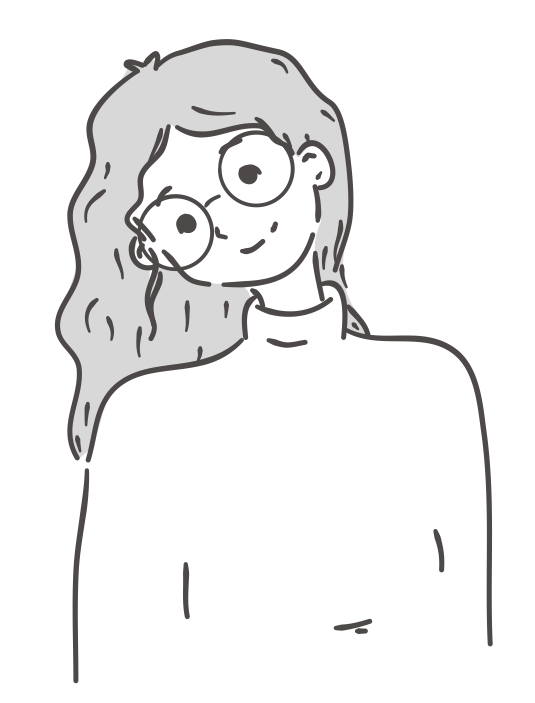
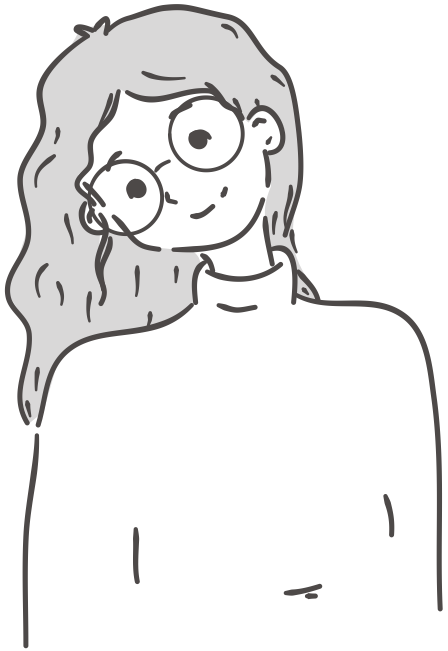
Add responsive styling for home

diff --git a/components/organisms/kp-home/index.vue b/components/organisms/kp-home/index.vue
@@ -4,17 +4,21 @@
       <p>Mikee</p>
       <p>2022 Portfolio</p>
     </header>
-    <img
-      class="home-banner"
-      :src="`${prefix}/images/self-portrait.png`"
-      :srcset="`${prefix}/images/self-portrait.png`"
-      alt="Self Portrait"
-    />
-    <div class="greetings">
-      <h1> Hi, </h1>  
-      <p>
-        I'm a <span class="highlight">Software Developer/</span> bookworm/cat lover from Cebu, Philippines
-      </p>
+    <div class="content-layout">
+      <div class="banner-container">
+        <img
+          class="home-banner"
+          :src="`${prefix}/images/self-portrait.png`"
+          :srcset="`${prefix}/images/self-portrait.png`"
+          alt="Self Portrait"
+        />
+      </div>
+      <div class="greetings">
+        <h1> Hi, </h1>  
+        <p>
+          I'm a <span class="highlight">Software Developer/</span> bookworm/cat lover from Cebu, Philippines
+        </p>
+      </div>
     </div>
   </section>
 </template>
@@ -45,37 +49,28 @@ header {
   padding: 20px 40px;
 }
 
-.home {
-  // background: $vista-white;
-  text-align: center;
-  // height: 100vh;
-}
-
-.home-banner {
-  height: 680px;
-  display: inline-block;
-  vertical-align: top;
+.content-layout {
+  height: calc(100vh - 71.5px);
+  align-items: center;
+  display: flex;
+  justify-content: center;
+  flex-wrap: wrap;
 }
 
 .greetings {
   color: $regular;
-  position: relative;
-  display: inline-block;
   text-align: left;
-  vertical-align: bottom;
-  height: calc(850px - 100px);
+  height: 100%;
   width: 400px;
+  display: flex;
+  flex-direction: column;
   h1 {
     margin: 0;
-    font-size: 138px;
-    position: absolute;
-    top: 150px;
+    font-size: 9em;
   }
   p {
-    font-size: 32px;
+    font-size: 2em;
     width: 400px;
-    position: absolute;
-    top: 330px;
     font-weight: bold;
   }
 }
@@ -83,5 +78,29 @@ header {
 .highlight {
   background: $powder-blue;
   padding: 5px 10px;
+}
+
+@media only screen and (min-width: $breakpoint-med){
+  .greetings {
+    margin-left: 40px;
+    justify-content: center;
+  }
+}
+
+@media only screen and (max-width: $breakpoint-med){ 
+  .home-banner {
+    height: 60vh;
+    margin-top: 2rem;
+  }
+}
+
+@media only screen and (max-width: $breakpoint-small) {
+  .greetings {
+    margin-top: 3rem;
+    align-items: center;
+    p {
+      text-align: center;
+    }
+  }
 }
 </style>

diff --git a/assets/scss/_settings.scss b/assets/scss/_settings.scss
@@ -100,6 +100,12 @@ $everglade: #143F32;
 
 // global declarations
 
-$main-font: Crimson Text;
+$main-font: "Crimson Text";
 $regular: $black-cow;
 $secondary: $dark-grey;
+
+// layout
+
+$breakpoint-small: 33.75em; // 540px
+$breakpoint-med: 45em; // 720px
+$breakpoint-large: 60em; // 960px
